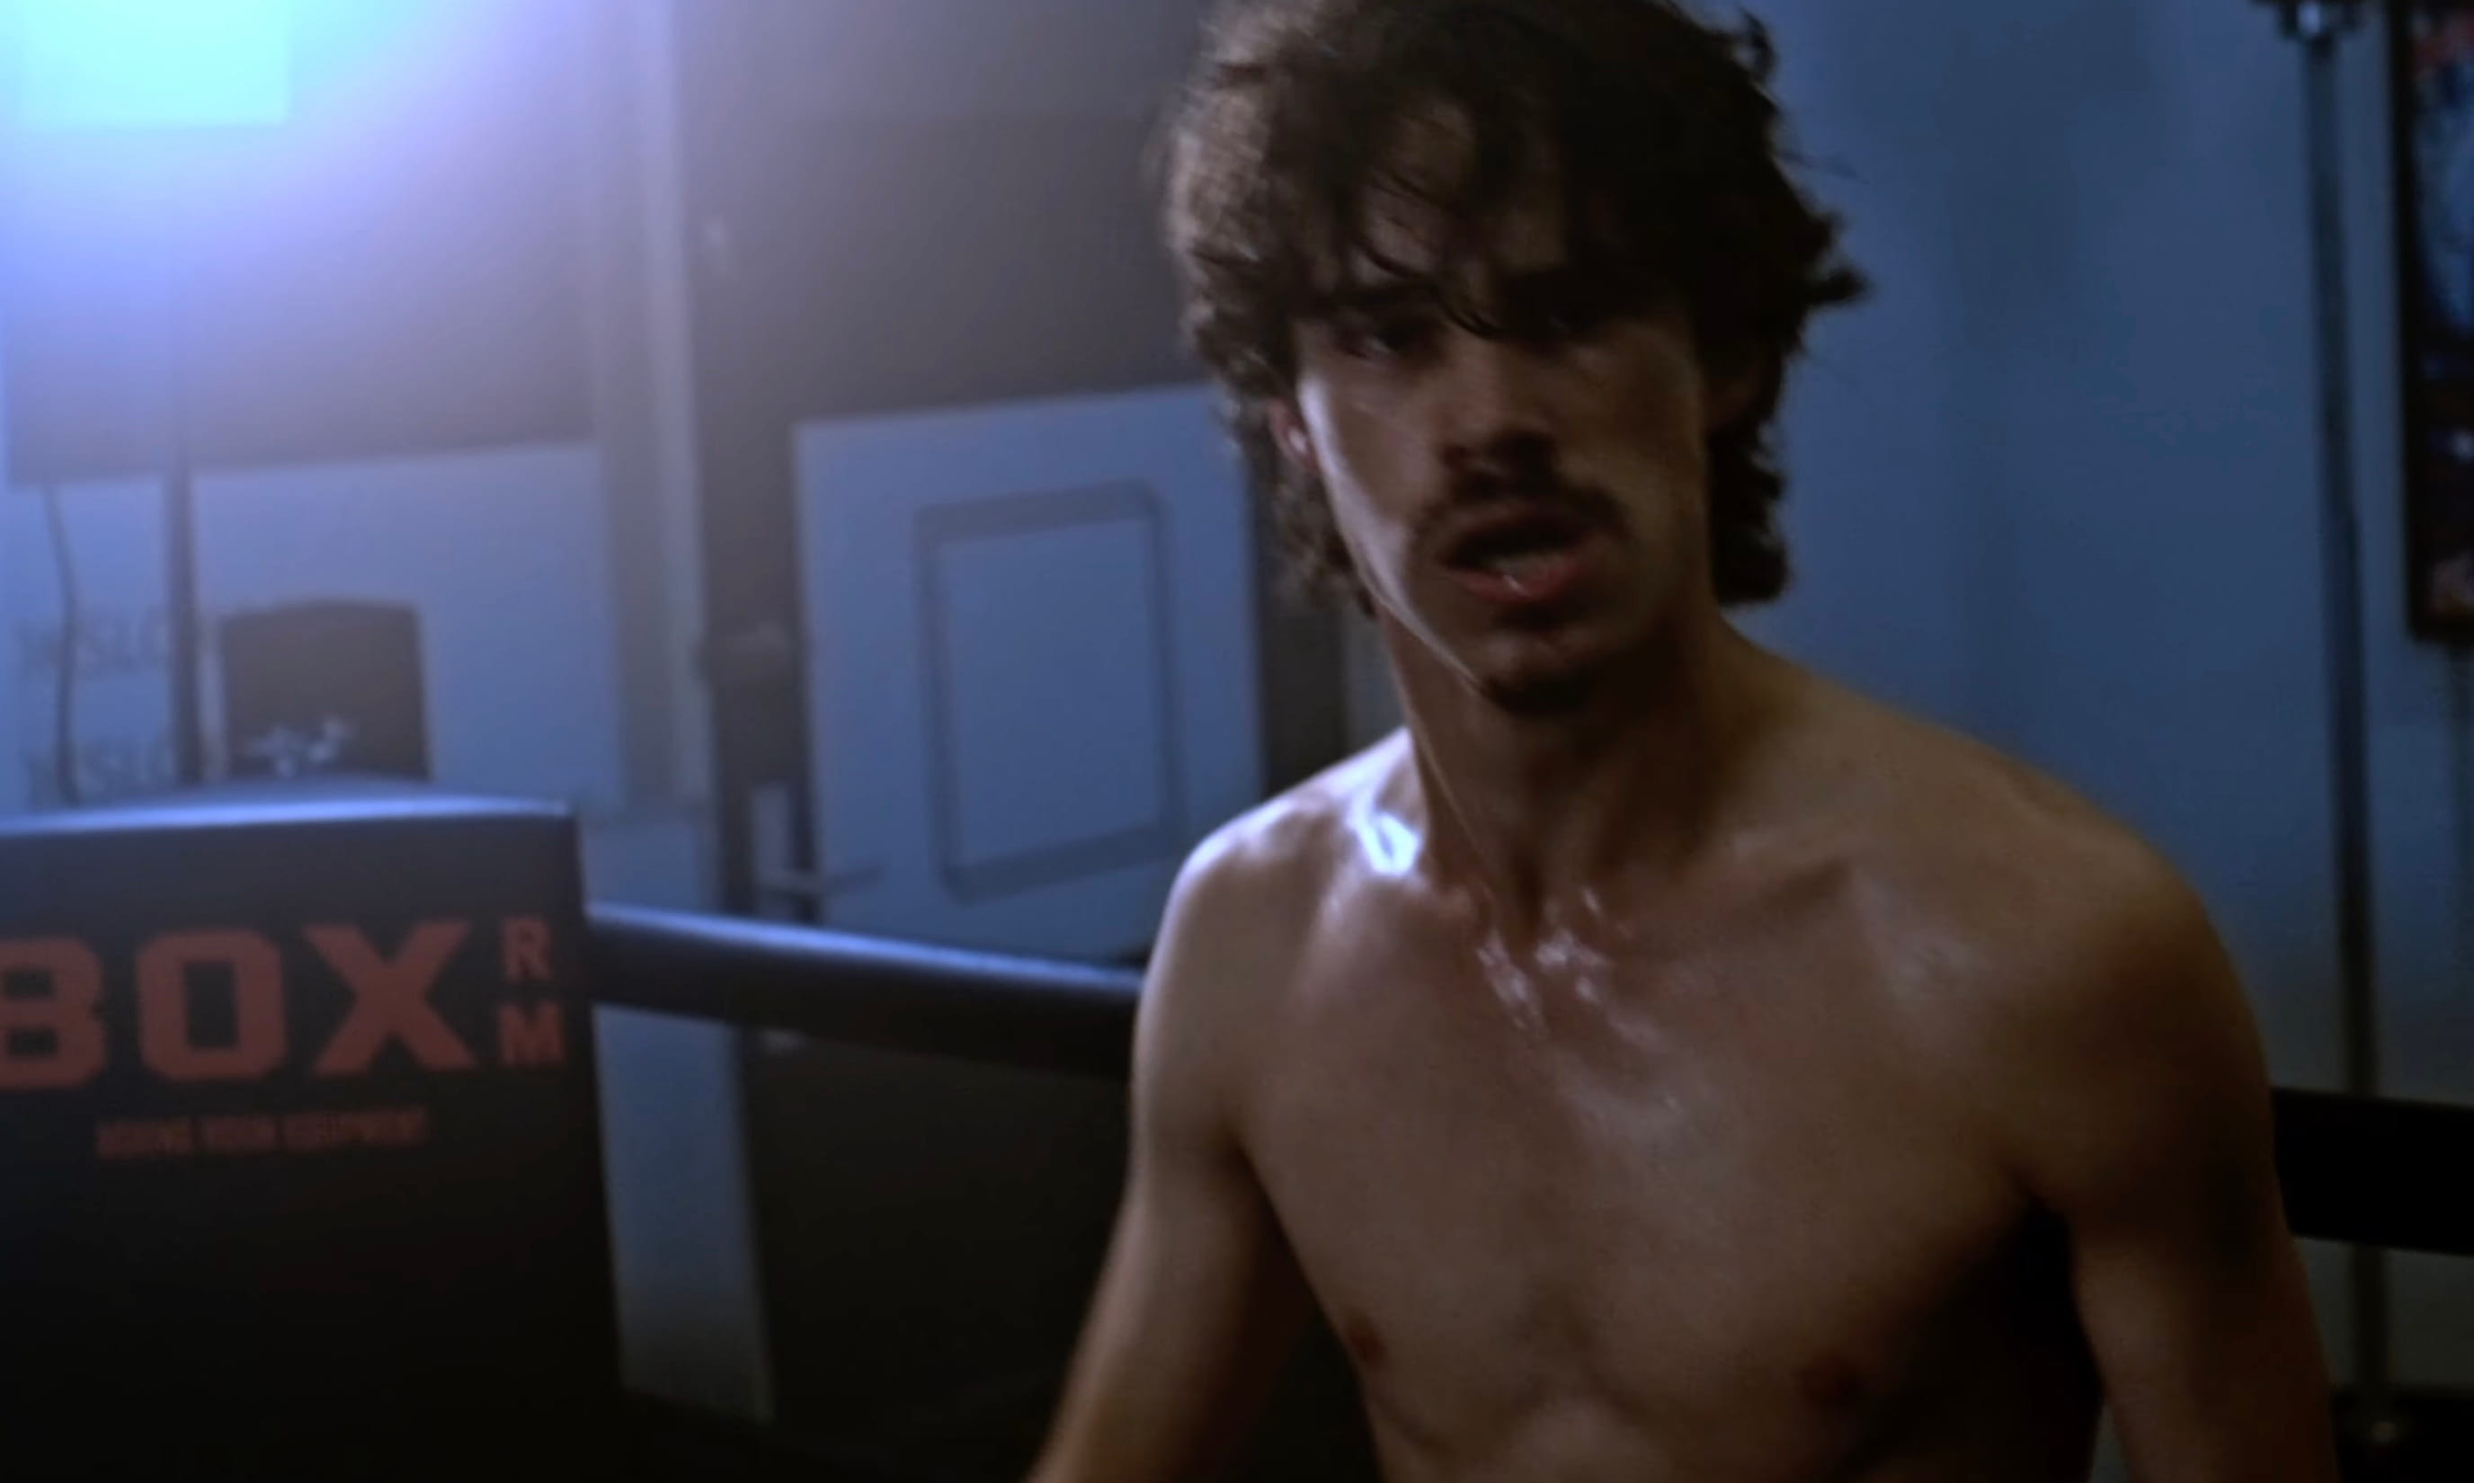
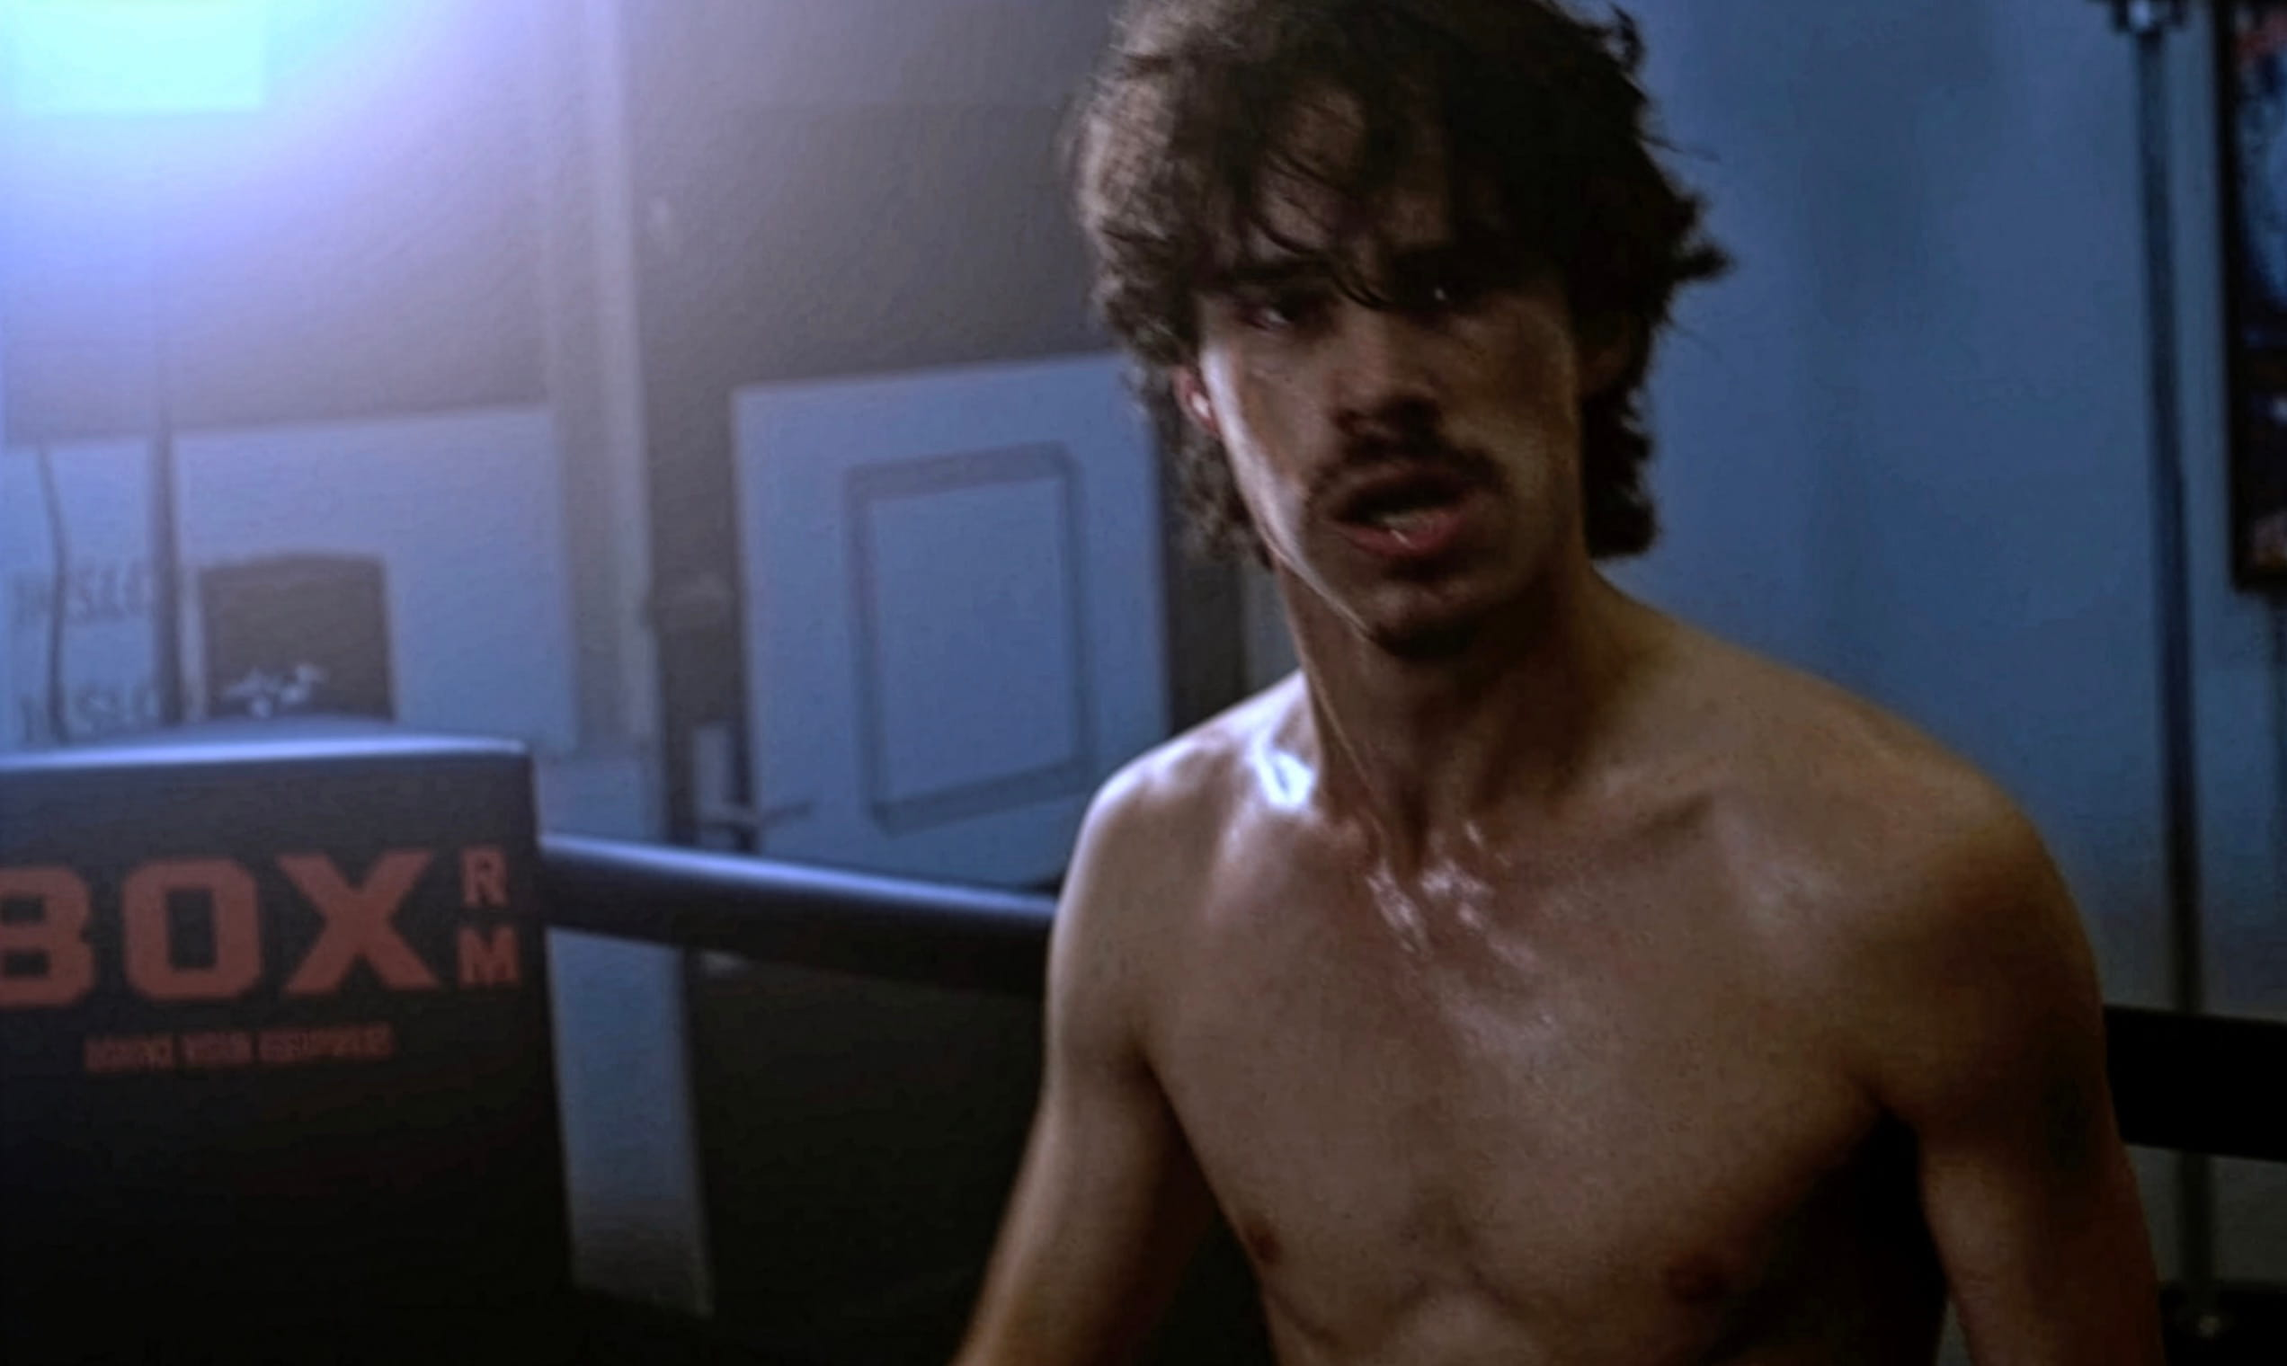
New work

diff --git a/index.html b/index.html
@@ -101,6 +101,24 @@
                 </article>
                 
                 <article>
+                    <img src="c/work/sleepers.jpg" alt="Sleepers Videoland Series still - Tristan Valkenburg as the foul mouthed drunk teenager">
+                    <div>
+                        <h3>Sleepers S3 <img src="c/icons/externalLink.svg" alt="link icon"></h3>
+                        <p>I was featured in the critically acclaimed Videoland Series Sleepers. I played a drunk, foul mouthed teenager who gets punched in the throat and held at gunpoint.</p>
+                        <a href="https://youtu.be/aeqRezQ4JIc" target="_blank" title="click to watch"></a>
+                    </div>
+                </article>
+
+                <article>
+                    <img src="c/work/monkeyMind.jpg" alt="Monkey Mind film still - Tristan Valkenburg as Mika, a young man in ape therapy">
+                    <div>
+                        <h3>Monkey Mind <img src="c/icons/externalLink.svg" alt="link icon"></h3>
+                        <p>A family drama where "monkey therapy" (yes, acting like monkeys) surfaces a new family hierarchy. Lot's of physical acting - best monkey in town.</p>
+                        <a href="https://www.instagram.com/monkeymind.film?utm_source=ig_web_button_share_sheet&igsh=ZDNlZDc0MzIxNw==" target="_blank" title="click to go to Instagram"></a>
+                    </div>
+                </article>
+                
+                <article>
                     <img src="c/work/ifOnlyIWere.jpg" alt="If Only I were film still - Tristan valkenburg as a delusional writer">
                     <div>
                         <h3>If Only I Were <img src="c/icons/externalLink.svg" alt="link icon"></h3>
@@ -137,15 +155,6 @@
                 </article>
                 
                 <article>
-                    <img src="c/work/jagerslust.jpg" alt=" Jagerslust film still - Tristan valkenburg as the Nixie creature, towering over a desperate father and daughter">
-                    <div>
-                        <h3>Jagerslust <img src="c/icons/externalLink.svg" alt="link icon"></h3>
-                        <p>In this fantasy drama I portrayed a Gollumn-like creature: the Nixie. My physical performance and interpretive dance helped breathe life into this abstract, faceless, magical being.</p>
-                        <a href="https://vimeo.com/1080941653/c79d1a38ae?fl=ip&fe=ec" target="_blank" title="click to watch"></a>
-                    </div>
-                </article>
-                
-                <article>
                     <img src="c/work/mannelijkGenoeg.jpg" alt="Mannelijk Genoeg film still - Tristan valkenburg and Donnavon Madaran as two best friends, watching the sunrise by the sea.">
                     <div>
                         <h3>Mannelijk Genoeg<img src="c/icons/externalLink.svg" alt="link icon"></h3>
@@ -153,13 +162,22 @@
                         <a href="https://www.youtube.com/watch?v=vty57tZiu0o" target="_blank" title="click to watch"></a>
                     </div>
                 </article>
-                
+
                 <article>
                     <img src="c/work/fold.jpg" alt="FOLD film still - Tristan valkenburg as a raging lunatic fighter">
                     <div>
                         <h3>Fold <img src="c/icons/externalLink.svg" alt="link icon"></h3>
                         <p>A grungy, off-beat boxing film  made for 48HFP Rotterdam 2025. My experience kickboxing helped a lot here.</p>
                         <a href="https://www.youtube.com/watch?v=5X_3jDrxba4" target="_blank" title="click to watch"></a>
+                    </div>
+                </article>
+
+                <article>
+                    <img src="c/work/jagerslust.jpg" alt=" Jagerslust film still - Tristan valkenburg as the Nixie creature, towering over a desperate father and daughter">
+                    <div>
+                        <h3>Jagerslust <img src="c/icons/externalLink.svg" alt="link icon"></h3>
+                        <p>In this fantasy drama I portrayed a Gollumn-like "Nixie". My physicality and interpretive dance breathed life into this abstract, faceless, magical being.</p>
+                        <a href="https://vimeo.com/1080941653/c79d1a38ae?fl=ip&fe=ec" target="_blank" title="click to watch"></a>
                     </div>
                 </article>
                 
